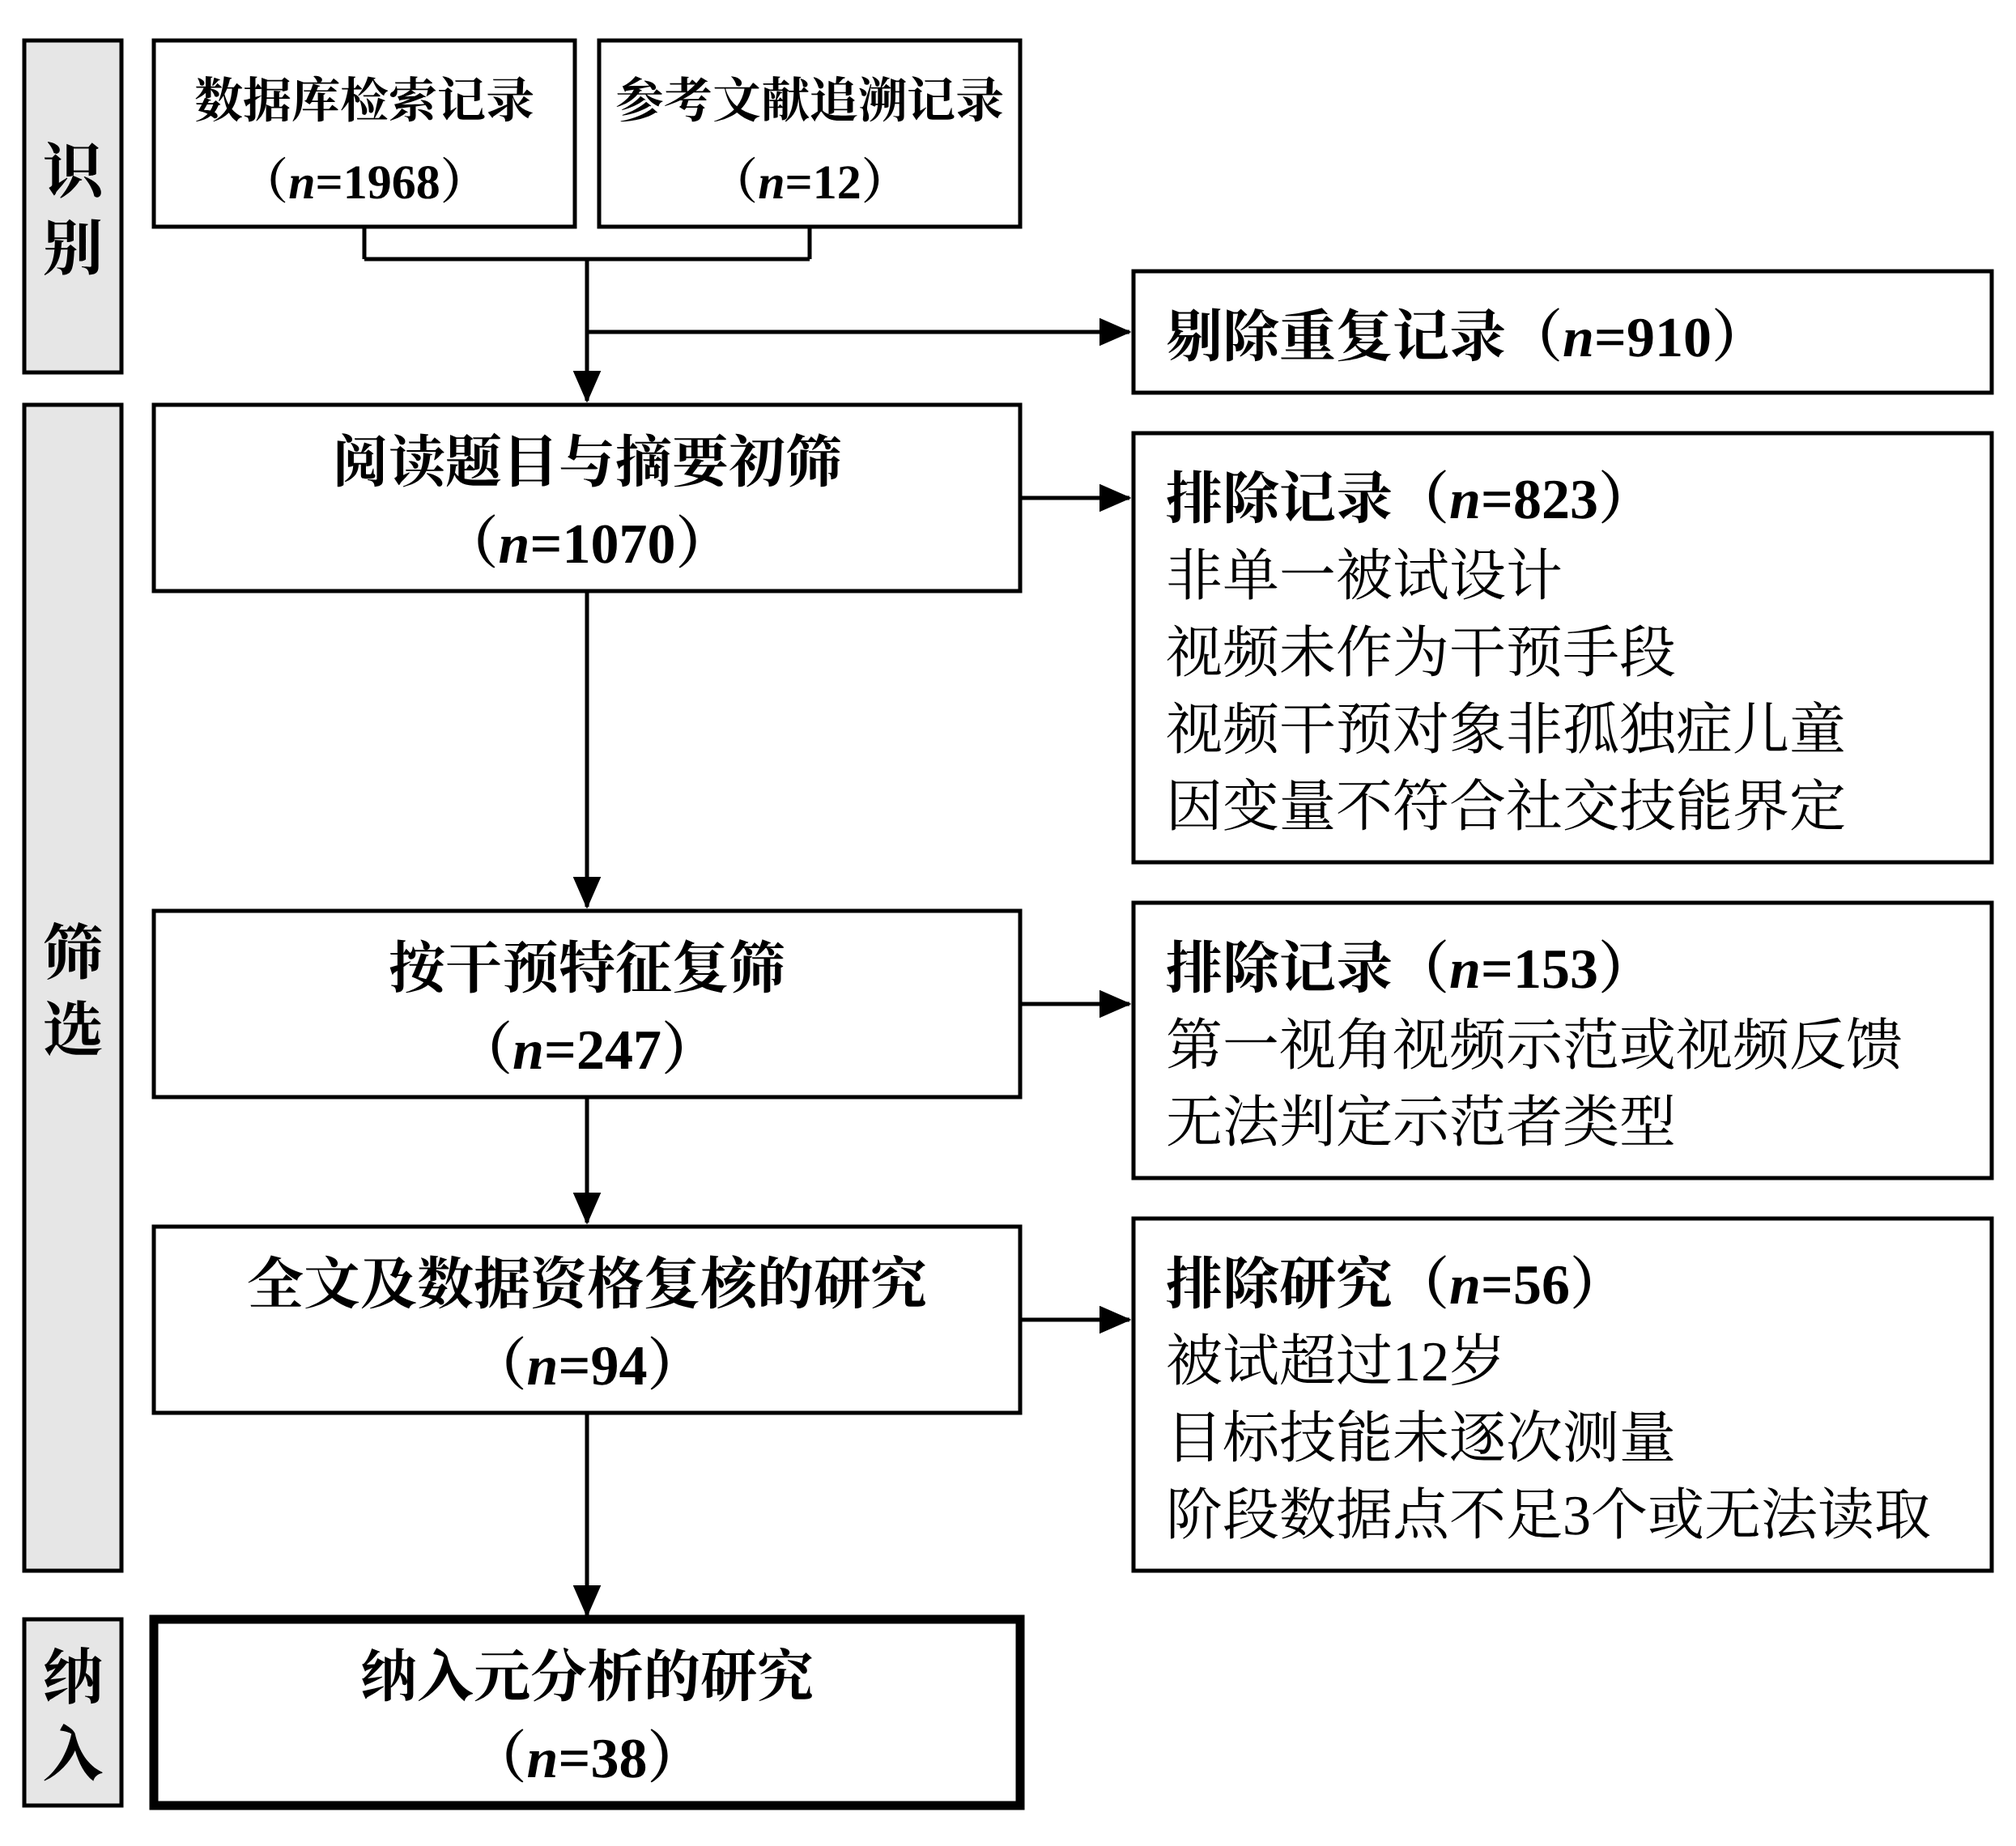
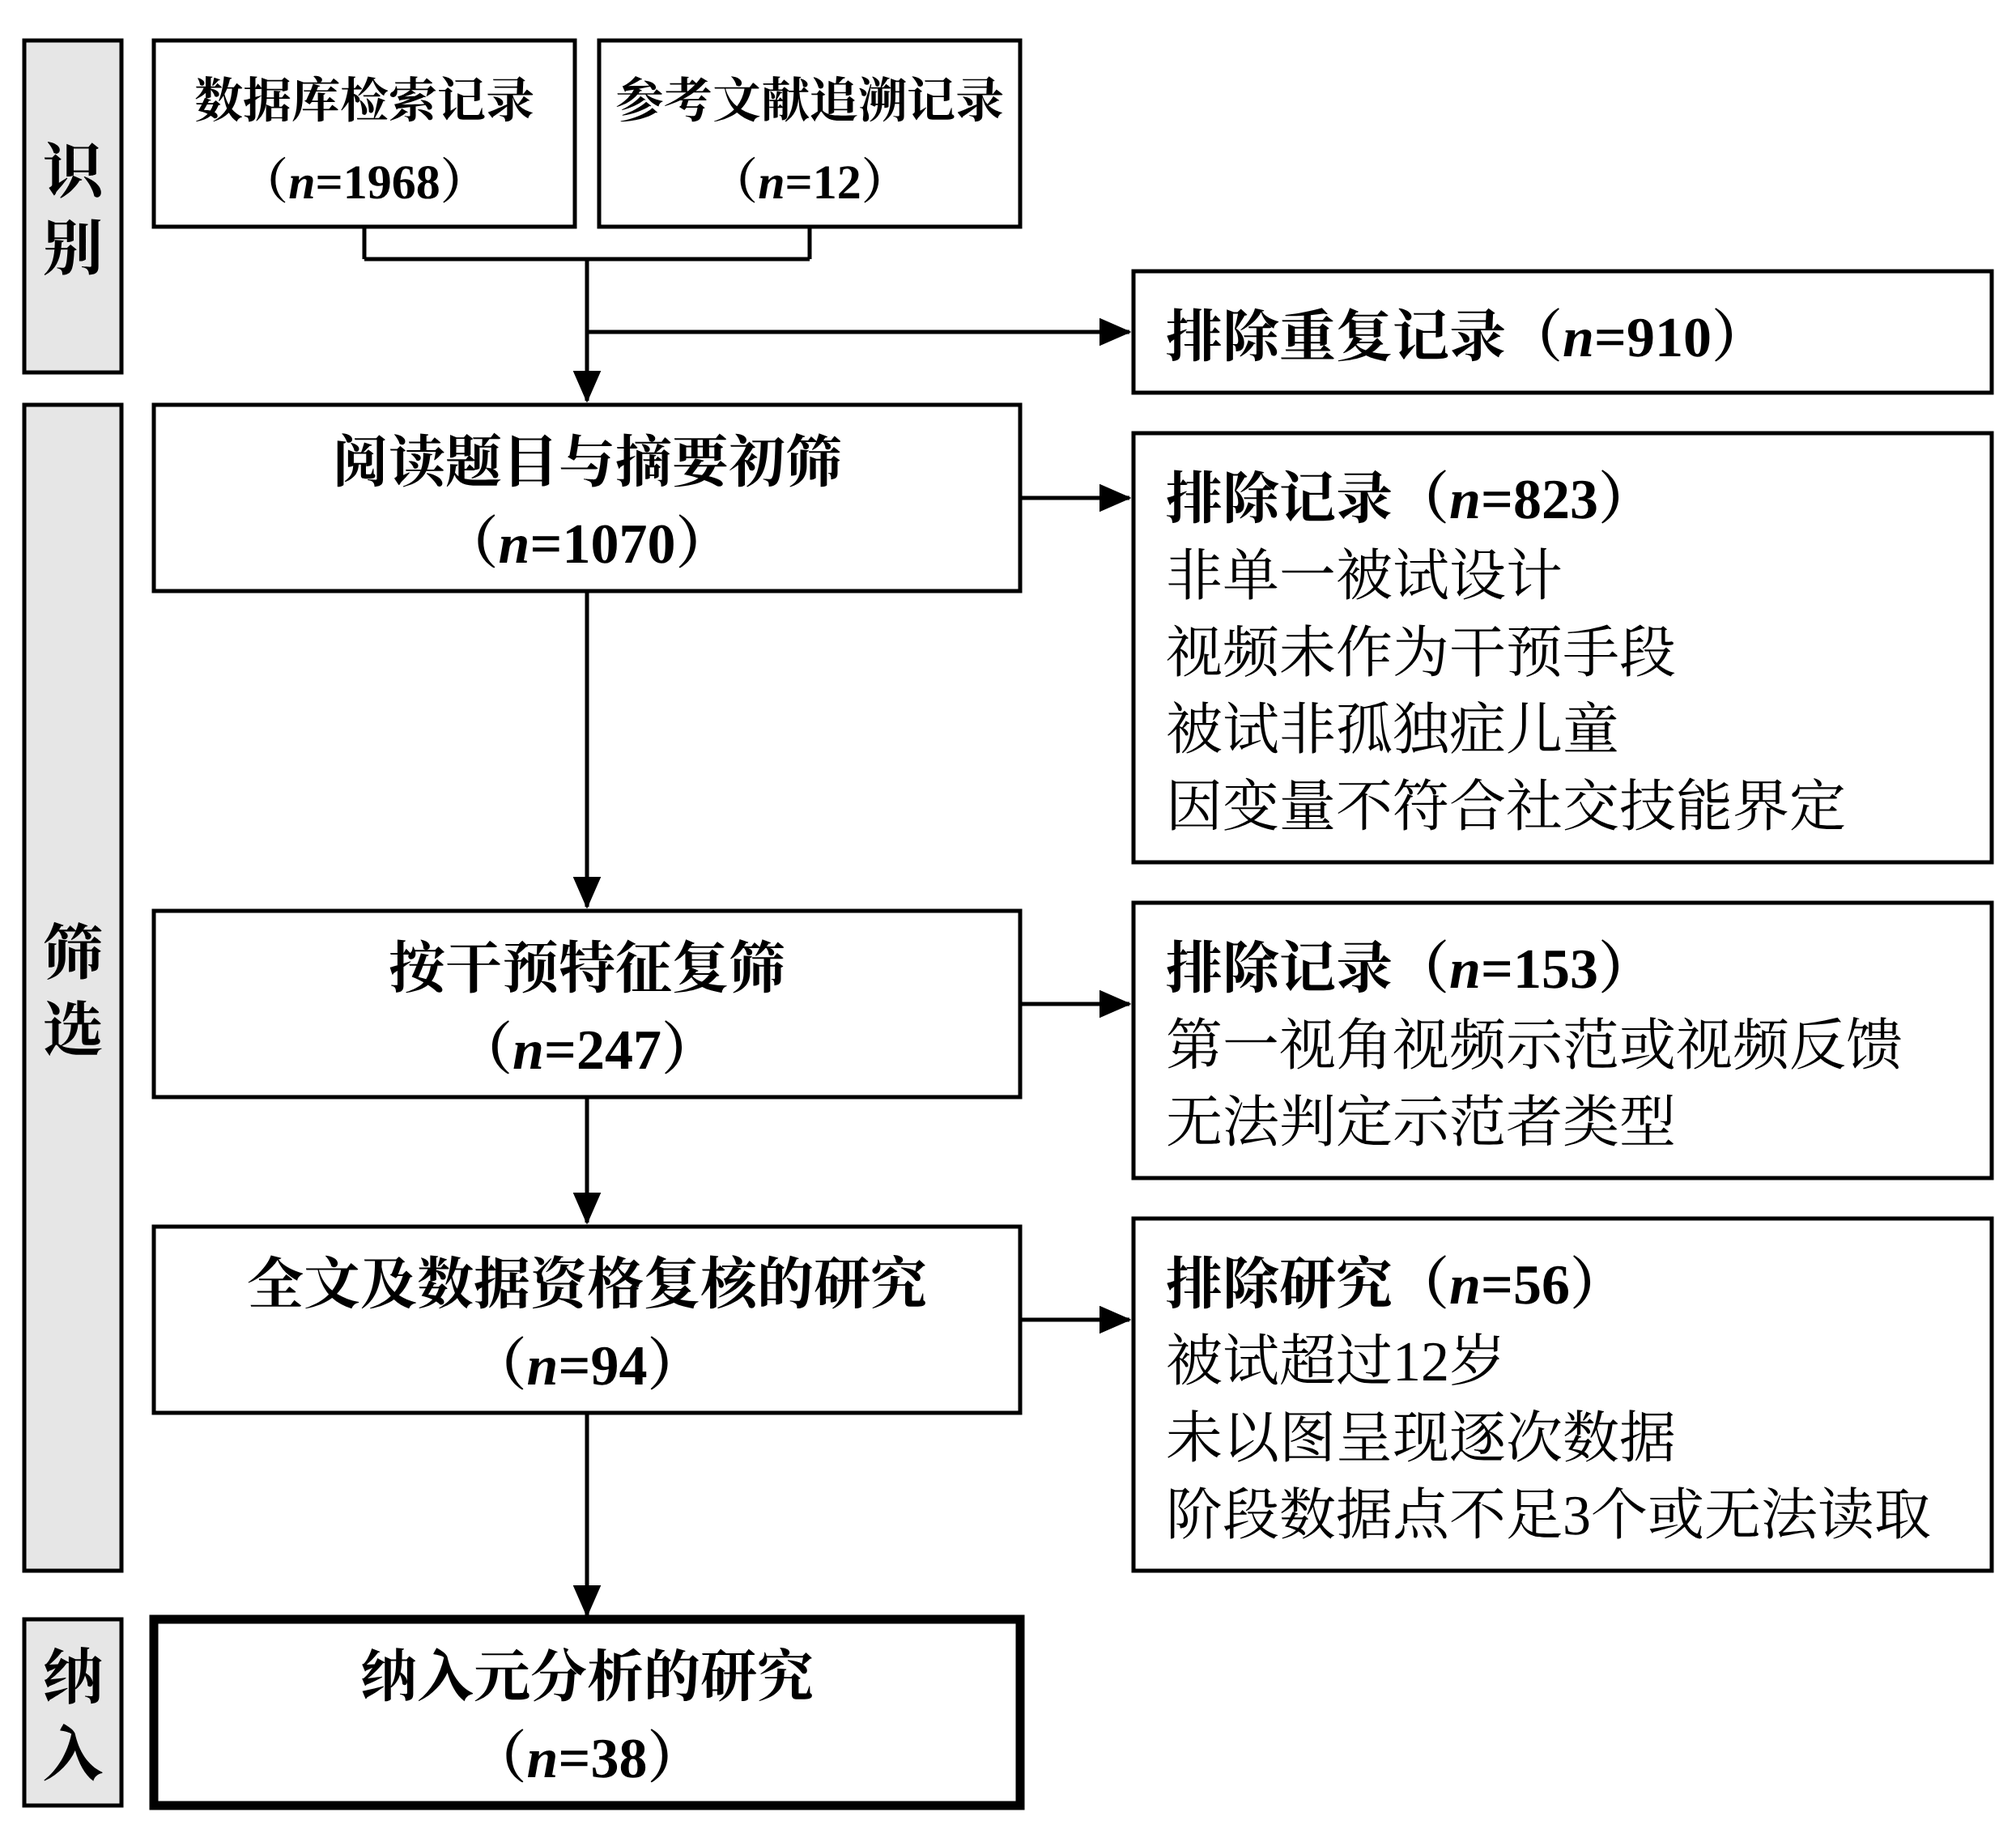
Unify wording of exclusion reasons in flowchart
Claude-Session: https://claude.ai/code/session_01EqCS8pdH5dXcLV7bqheSma

diff --git a/文献筛选流程图/流程图.html b/文献筛选流程图/流程图.html
@@ -24,7 +24,7 @@
 <line class="ln0" x1="200.0" y1="56" x2="200.0" y2="64"/>
 <line class="ln0" x1="90.0" y1="64" x2="200.0" y2="64"/>
 <rect class="box" x="280" y="67.0" width="212" height="30"/>
-<text class="b" x="288" y="88.0" text-anchor="start">剔除重复记录（<tspan font-style="italic">n</tspan>=<tspan>910</tspan>）</text>
+<text class="b" x="288" y="88.0" text-anchor="start">排除重复记录（<tspan font-style="italic">n</tspan>=<tspan>910</tspan>）</text>
 <line class="ln" x1="145.0" y1="82.0" x2="279" y2="82.0"/>
 <line class="ln" x1="145.0" y1="64" x2="145.0" y2="99"/>
 <rect class="box" x="38" y="100" width="214" height="46"/>
@@ -34,7 +34,7 @@
 <text class="b" x="288" y="128.0" text-anchor="start">排除记录（<tspan font-style="italic">n</tspan>=<tspan>823</tspan>）</text>
 <text class="" x="288" y="147.0" text-anchor="start">非单一被试设计</text>
 <text class="" x="288" y="166.0" text-anchor="start">视频未作为干预手段</text>
-<text class="" x="288" y="185.0" text-anchor="start">视频干预对象非孤独症儿童</text>
+<text class="" x="288" y="185.0" text-anchor="start">被试非孤独症儿童</text>
 <text class="" x="288" y="204.0" text-anchor="start">因变量不符合社交技能界定</text>
 <line class="ln" x1="252" y1="123.0" x2="279" y2="123.0"/>
 <line class="ln" x1="145.0" y1="146" x2="145.0" y2="224.0"/>
@@ -53,7 +53,7 @@
 <rect class="box" x="280" y="301.0" width="212" height="87"/>
 <text class="b" x="288" y="322.0" text-anchor="start">排除研究（<tspan font-style="italic">n</tspan>=<tspan>56</tspan>）</text>
 <text class="" x="288" y="341.0" text-anchor="start">被试超过12岁</text>
-<text class="" x="288" y="360.0" text-anchor="start">目标技能未逐次测量</text>
+<text class="" x="288" y="360.0" text-anchor="start">未以图呈现逐次数据</text>
 <text class="" x="288" y="379.0" text-anchor="start">阶段数据点不足3个或无法读取</text>
 <line class="ln" x1="252" y1="326.0" x2="279" y2="326.0"/>
 <line class="ln" x1="145.0" y1="349.0" x2="145.0" y2="399.0"/>
